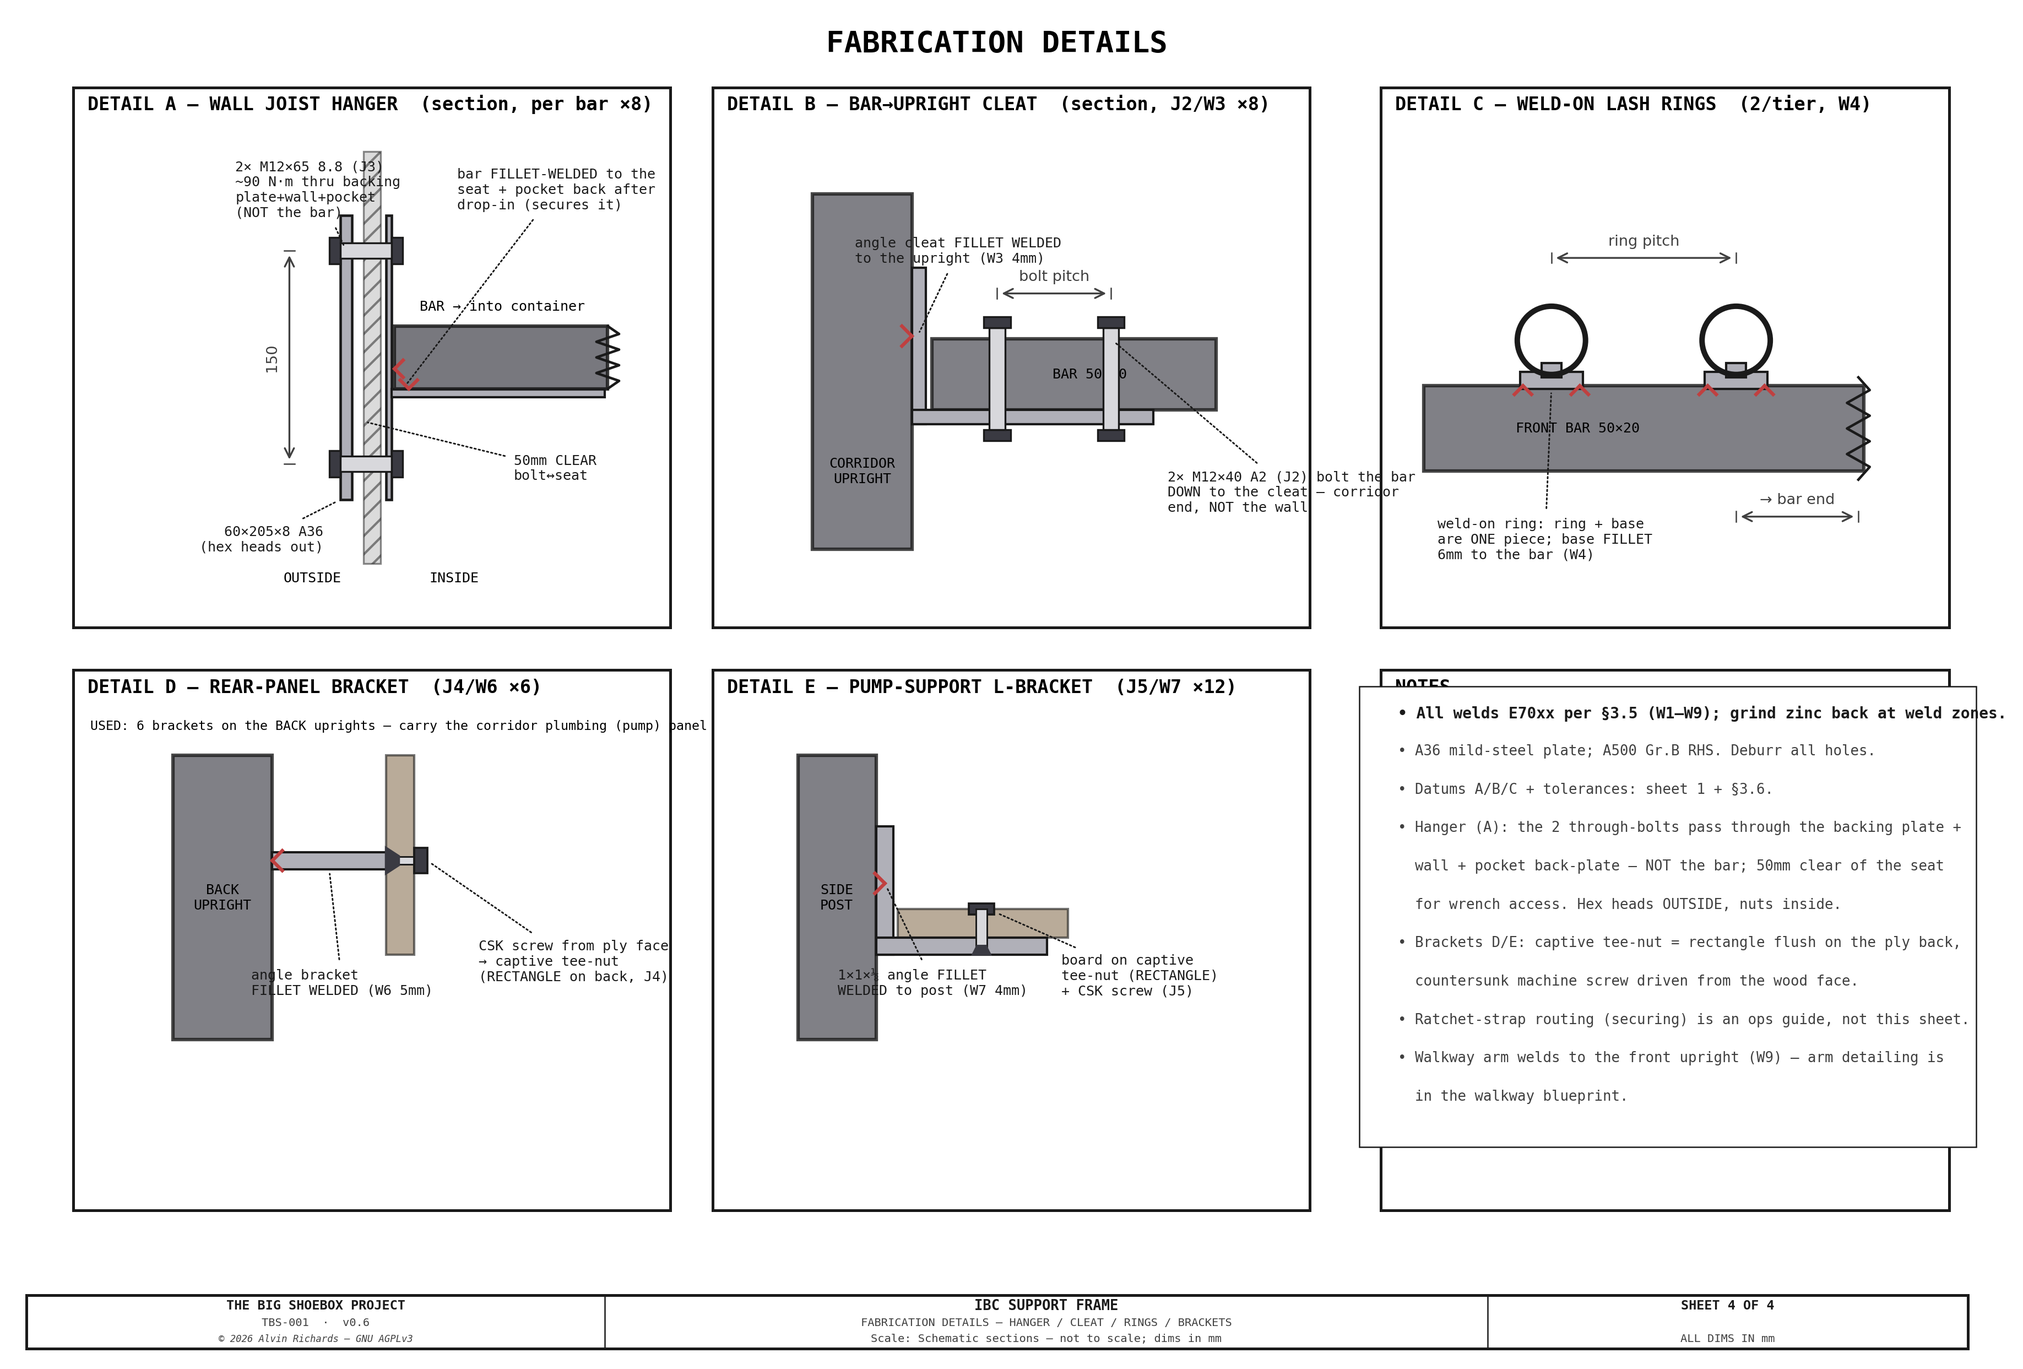
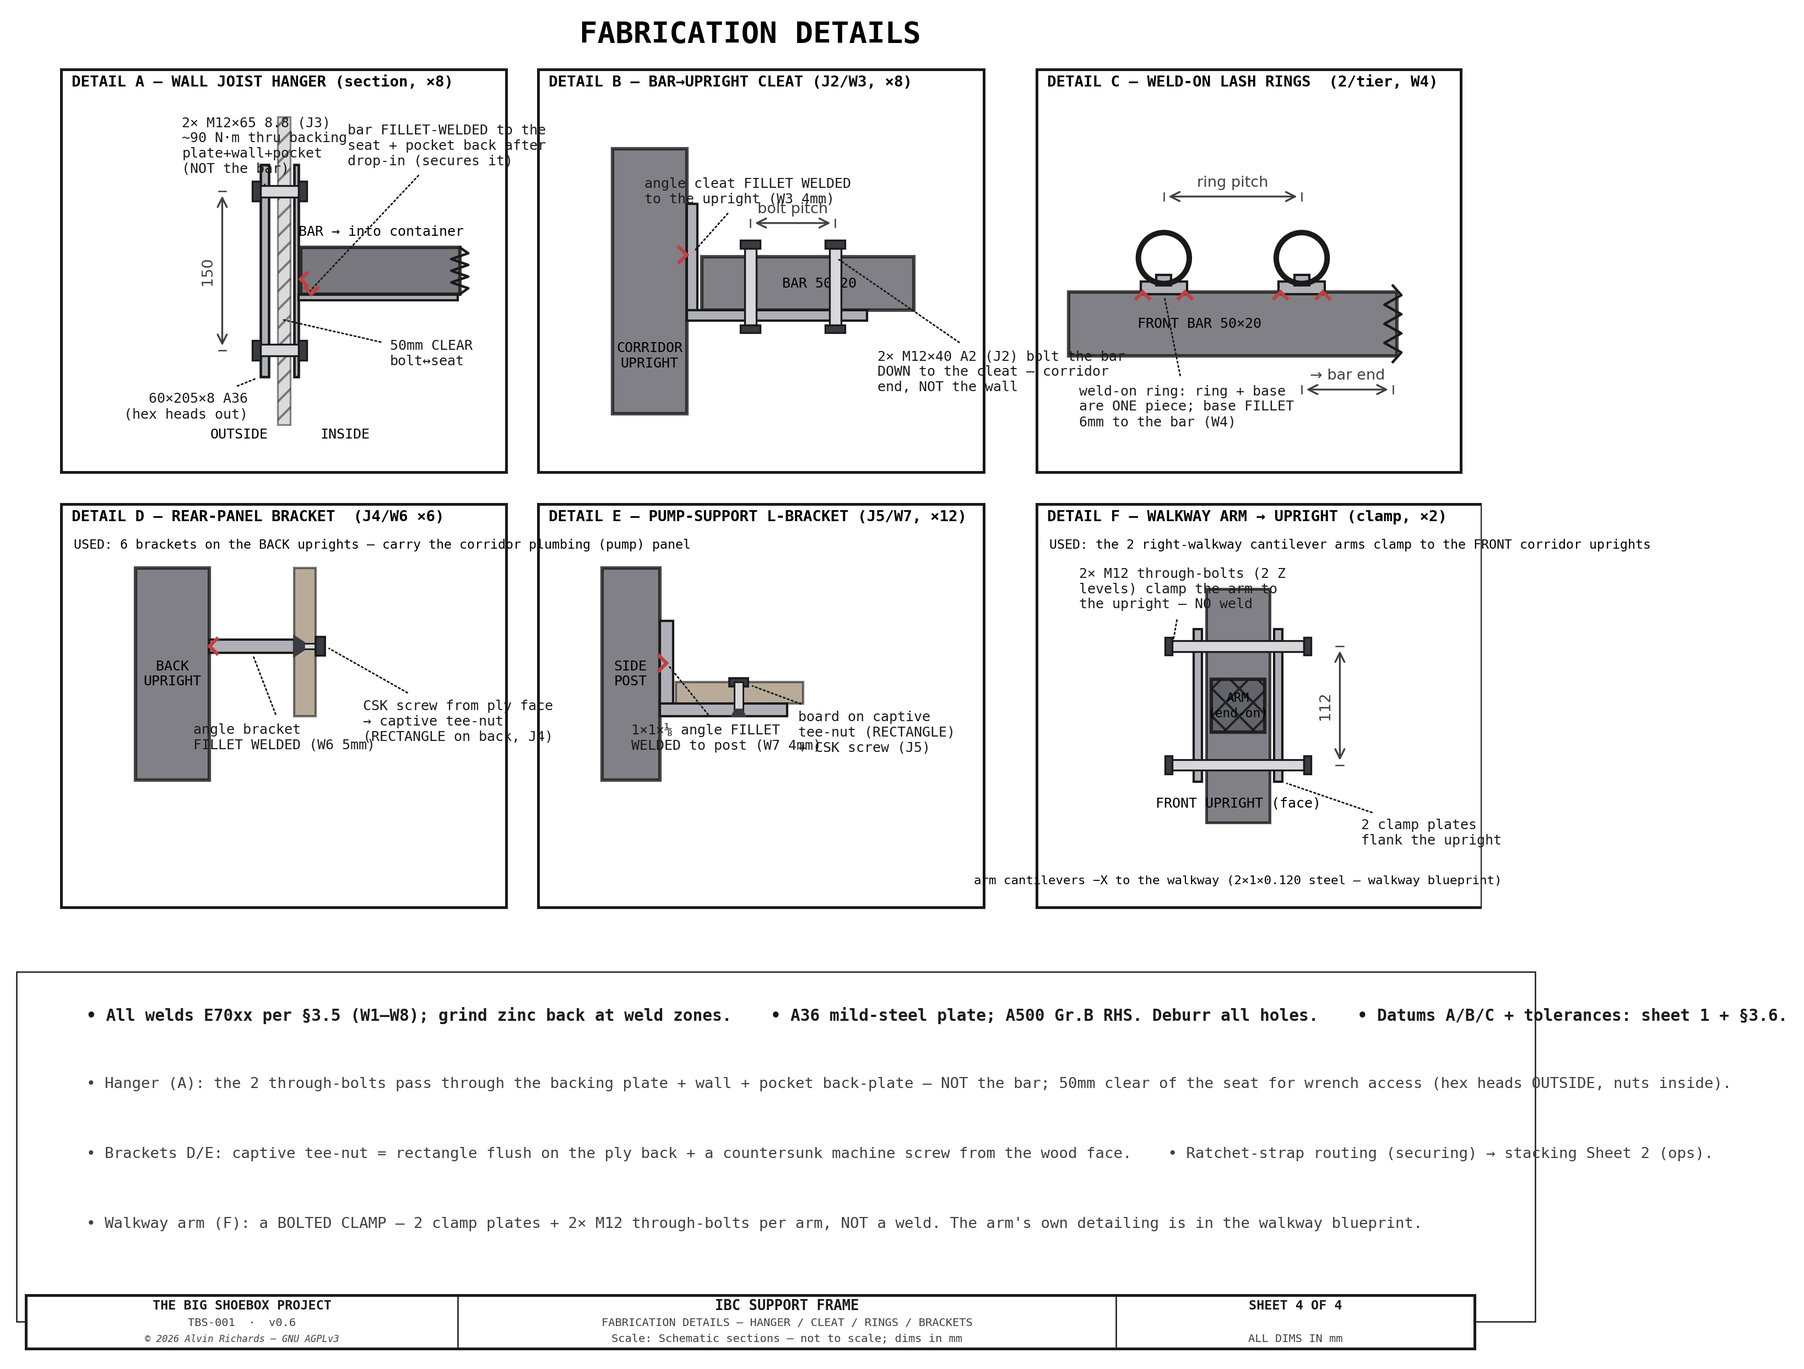
IBC frame Sheet 4: DETAIL F walkway arm->upright clamp + reclassify weld W9 -> bolt J6
The right-walkway cantilever arm attaches to a front corridor upright with a
BOLTED CLAMP (2 clamp plates + 2x M12 through-bolts, per ibc_cantilever_arms),
not a weld. Added DETAIL F to sheet4 and corrected the connection across the
blueprint: ibc_frame_load.py now checks it as a 2-bolt clamp (couple over the
~37mm bolt spacing, SF 3.8); report §3.4 (clamp), §3.5 (new fastener J6, W9
removed from the weld schedule), §8 (Sheet 4 now A-F). Clamp hardware ships
with the walkway-arm assembly, not this frame's BOM.

diff --git a/src/generators/generate_ibc_frame_drawing.py b/src/generators/generate_ibc_frame_drawing.py
@@ -1078,18 +1078,18 @@ def sheet3():
 def _dcell(ax, x0, y0, w, h, title):
     """A titled detail cell."""
     ax.add_patch(Rectangle((x0, y0), w, h, fc="none", ec=C_OUT, lw=1.2, zorder=3))
-    ax.text(x0 + 10, y0 + h - 16, title, fontsize=8, fontweight="bold", **FONT, zorder=6)
+    ax.text(x0 + 10, y0 + h - 16, title, fontsize=6.6, fontweight="bold", **FONT, zorder=6)
 
 
 def sheet4():
     """Sheet 4 — fabrication detail insets (corrected cross-sections)."""
     fig, ax = plt.subplots(figsize=(16.5, 10.5))
-    ax.set_xlim(-20, 1360); ax.set_ylim(-40, 900); ax.set_aspect("equal"); ax.axis("off")
+    ax.set_xlim(-20, 1360); ax.set_ylim(-360, 900); ax.set_aspect("equal"); ax.axis("off")
     ax.text(670, 875, "FABRICATION DETAILS", fontsize=13, fontweight="bold", ha="center", **FONT)
 
     # ── DETAIL A — WALL JOIST HANGER (Z–Yd section: bolts thru the PLATES, bar between) ──
     ax0, ay0 = 20, 470
-    _dcell(ax, ax0, ay0, 420, 380, "DETAIL A — WALL JOIST HANGER  (section, per bar ×8)")
+    _dcell(ax, ax0, ay0, 420, 380, "DETAIL A — WALL JOIST HANGER (section, ×8)")
     wy = ax0 + 210; zc = ay0 + 190
     hatch_rect(ax, wy - 6, ay0 + 45, 12, 290, color="#B8B8B8", hatch="///")            # wall in section
     ax.add_patch(Rectangle((wy - 22, zc - 100), 8, 200, fc=C_STEEL, ec=C_OUT, lw=1.1, zorder=6))   # 60x205x8 backing plate
@@ -1112,7 +1112,7 @@ def sheet4():
 
     # ── DETAIL B — BAR→UPRIGHT CLEAT (section, VERTICAL bolts + spacing) ──
     bx0, by0 = 470, 470
-    _dcell(ax, bx0, by0, 420, 380, "DETAIL B — BAR→UPRIGHT CLEAT  (section, J2/W3 ×8)")
+    _dcell(ax, bx0, by0, 420, 380, "DETAIL B — BAR→UPRIGHT CLEAT (J2/W3, ×8)")
     ux = bx0 + 70; uz = by0 + 55
     _rhs_rect(ax, ux, uz, 70, 250, fc=C_FRAME, alpha=0.8, zo=5)                                      # corridor upright (section)
     ax.text(ux + 35, uz + 55, "CORRIDOR\nUPRIGHT", fontsize=6, ha="center", va="center", **FONT, zorder=8)
@@ -1160,7 +1160,7 @@ def sheet4():
 
     # ── DETAIL E — PUMP-SUPPORT L-BRACKET (captive nut = rectangle + CSK, vertical) ──
     ex0, ey0 = 470, 60
-    _dcell(ax, ex0, ey0, 420, 380, "DETAIL E — PUMP-SUPPORT L-BRACKET  (J5/W7 ×12)")
+    _dcell(ax, ex0, ey0, 420, 380, "DETAIL E — PUMP-SUPPORT L-BRACKET (J5/W7, ×12)")
     qx, qy = ex0 + 60, ey0 + 120
     _rhs_rect(ax, qx, qy, 55, 200, fc=C_FRAME, alpha=0.8, zo=5)                                      # side post
     ax.text(qx + 27, qy + 100, "SIDE\nPOST", fontsize=6, ha="center", va="center", **FONT, zorder=8)
@@ -1175,22 +1175,34 @@ def sheet4():
     leader(ax, qx + 61, qy + 110, qx + 28, qy + 40, "1×1×⅛ angle FILLET\nWELDED to post (W7 4mm)", fs=6, font=FONT, ha="left")
     leader(ax, qx + 138, qy + 90, qx + 185, qy + 45, "board on captive\ntee-nut (RECTANGLE)\n+ CSK screw (J5)", fs=6, font=FONT, ha="left")
 
-    # ── Legend / notes cell ──
-    nx0, ny0 = 940, 60
-    _dcell(ax, nx0, ny0, 400, 380, "NOTES")
+    # ── DETAIL F — WALKWAY CANTILEVER ARM → FRONT UPRIGHT (2-bolt clamp, Yd–Z elevation) ──
+    fx0, fy0 = 940, 60
+    _dcell(ax, fx0, fy0, 420, 380, "DETAIL F — WALKWAY ARM → UPRIGHT (clamp, ×2)")
+    ax.text(fx0 + 12, fy0 + 338, "USED: the 2 right-walkway cantilever arms clamp to the FRONT corridor uprights",
+            fontsize=5.6, **FONT, zorder=6)
+    fyc, fzc = fx0 + 190, fy0 + 190
+    ax.add_patch(Rectangle((fyc - 30, fzc - 110), 60, 220, fc=C_FRAME, ec=C_OUT, lw=1.2, alpha=0.8, zorder=5))  # upright face
+    ax.text(fyc, fzc - 92, "FRONT UPRIGHT (face)", fontsize=6, ha="center", va="center", **FONT, zorder=8)
+    ax.add_patch(Rectangle((fyc - 25, fzc - 25), 50, 50, fc=C_FRAME, ec=C_OUT, lw=1.5, hatch="xx", alpha=0.9, zorder=7))  # arm end-on
+    ax.text(fyc, fzc, "ARM\n(end-on)", fontsize=5.5, ha="center", va="center", **FONT, zorder=9)
+    for fyy in (fyc - 42, fyc + 34):                                             # 2 clamp plates flanking the upright
+        ax.add_patch(Rectangle((fyy, fzc - 72), 8, 144, fc=C_STEEL, ec=C_OUT, lw=1, zorder=6))
+    for bz in (fzc - 56, fzc + 56):                                              # 2 M12 through-bolts (2 Z levels)
+        _bolt(ax, fyc - 62, bz, 124, d=10, nut=True)
+    draw_dim_v(ax, fyc + 96, fzc - 56, fzc + 56, "112")
+    leader(ax, fyc + 42, fzc - 72, fyc + 116, fzc - 120, "2 clamp plates\nflank the upright", fs=6, font=FONT, ha="left")
+    leader(ax, fyc - 62, fzc + 56, fyc - 150, fzc + 110, "2× M12 through-bolts (2 Z\nlevels) clamp the arm to\nthe upright — NO weld", fs=6, font=FONT, ha="left")
+    ax.text(fyc, fy0 + 22, "arm cantilevers −X to the walkway (2×1×0.120 steel — walkway blueprint)",
+            fontsize=5.4, ha="center", **FONT, zorder=6)
+
+    # ── Full-width NOTES band ──
+    _dcell(ax, 20, -330, 1340, 300, "NOTES")
     draw_notes(ax, [
-        "• All welds E70xx per §3.5 (W1–W9); grind zinc back at weld zones.",
-        "• A36 mild-steel plate; A500 Gr.B RHS. Deburr all holes.",
-        "• Datums A/B/C + tolerances: sheet 1 + §3.6.",
-        "• Hanger (A): the 2 through-bolts pass through the backing plate +",
-        "  wall + pocket back-plate — NOT the bar; 50mm clear of the seat",
-        "  for wrench access. Hex heads OUTSIDE, nuts inside.",
-        "• Brackets D/E: captive tee-nut = rectangle flush on the ply back,",
-        "  countersunk machine screw driven from the wood face.",
-        "• Ratchet-strap routing (securing) is an ops guide, not this sheet.",
-        "• Walkway arm welds to the front upright (W9) — arm detailing is",
-        "  in the walkway blueprint.",
-    ], nx0 + 12, ny0 + 355, spacing=27, fs=6.2, font=FONT, width=380)
+        "• All welds E70xx per §3.5 (W1–W8); grind zinc back at weld zones.    • A36 mild-steel plate; A500 Gr.B RHS. Deburr all holes.    • Datums A/B/C + tolerances: sheet 1 + §3.6.",
+        "• Hanger (A): the 2 through-bolts pass through the backing plate + wall + pocket back-plate — NOT the bar; 50mm clear of the seat for wrench access (hex heads OUTSIDE, nuts inside).",
+        "• Brackets D/E: captive tee-nut = rectangle flush on the ply back + a countersunk machine screw from the wood face.    • Ratchet-strap routing (securing) → stacking Sheet 2 (ops).",
+        "• Walkway arm (F): a BOLTED CLAMP — 2 clamp plates + 2× M12 through-bolts per arm, NOT a weld. The arm's own detailing is in the walkway blueprint.",
+    ], 44, -34, spacing=66, fs=6.6, font=FONT, width=1300)
 
     title_block(ax, "SHEET 4 OF 4",
                 drawing_title="IBC SUPPORT FRAME",

diff --git a/src/generators/ibc_frame_load.py b/src/generators/ibc_frame_load.py
@@ -202,15 +202,16 @@ def service_loads():
     m_conn = p_arm * ARM_REACH_M
     z_upr = z_rhs(IBC_FRAME_RHS, IBC_FRAME_RHS, IBC_FRAME_T)   # 50.8x50.8x3 upright
     m_cap_upr = z_upr * FY_A500B / 1e3
-    # arm->upright connection: moment carried as a couple over the 2x1 arm depth (25.4mm) by a 5mm fillet
-    # weld (or an equivalent 2-bolt clamp); representative check = top-fibre weld force vs a 50.8mm run.
-    f_couple = m_conn / 0.0254
-    weld_cap = 0.707 * 5 * 50.8 * 0.6 * FU_WELD
+    # arm->upright connection = a BOLTED CLAMP (2 clamp plates + 2x M12 through-bolts wrapping the upright,
+    # per ibc_cantilever_arms). The moment is carried as a couple over the ~37mm clamp bolt spacing.
+    clamp_sp = 0.037
+    f_couple = m_conn / clamp_sp
+    bolt_cap = bolt_shear_cap(FUB_88, 1)   # per M12 8.8 through-bolt
     lines.append(f"  walkway arm tip {p_arm:.0f} N (22kg dead + 1kN person) x {ARM_REACH_M*1000:.0f}mm"
                  f" = {m_conn:.0f} N.m at the upright")
     lines.append(f"  front upright bending (50.8 RHS): cap {m_cap_upr:.0f} N.m  SF {m_cap_upr/m_conn:.1f}")
-    lines.append(f"  arm->upright connection (5mm fillet / 2-bolt clamp): couple {f_couple:.0f} N,"
-                 f" weld cap {weld_cap:.0f} N  SF {weld_cap/f_couple:.1f}")
+    lines.append(f"  arm->upright CLAMP (2x M12 through-bolts): couple {f_couple:.0f} N/bolt,"
+                 f" cap {bolt_cap:.0f} N  SF {bolt_cap/f_couple:.1f}")
     lines.append("  Both non-governing vs the EN 12195-1 transport case (bar SF 1.59). Arm DETAILING = walkway blueprint.")
     return "\n".join(lines)
 

diff --git a/ibc-stacking-report.md b/ibc-stacking-report.md
@@ -119,7 +119,7 @@ and the walkway-arm connection are validated and scheduled in §3.4–3.6 alongs
 | Weld-on lashing rings | 8 on the front bars (4 per tier); 3,333 lb (~1,512 kg) assembly WLL (2" strap-limited), 2 straps per stack |
 | Panel mount | the box carries the Corridor (pump) Plumbing Panel + drain-riser spine on the back uprights, and the right-walkway cantilever arms on the front uprights |
 | Frame weight | ~123 kg (4 uprights + rings + 4 feet + 8 front bars + 8 hangers + 8 exterior plates + rear-panel brackets + 4 mats — see [weight report](weight-distribution-report.md)) |
-| Joints | Welded (fillet weld throughout — sizes scheduled in §3.5) |
+| Joints | Welded (fillet weld throughout — sizes scheduled in §3.5); the walkway-arm connection is a bolted clamp (J6), not a weld |
 
 ![TBS-001 IBC Frame — Sheet 2: Side Elevation](assets/ibc-frame-sheet2.png)
 
@@ -162,7 +162,7 @@ The two bars give **defense in depth**: as positive blocking they pass on their 
 **Service + walkway load cases** (the same frame also carries the plumbing panel and the walkway — both **non-governing** vs the transport case):
 
 - **Plumbing panel + pumps** (~20 kg on the 6 rear-panel brackets) = ~33 N/bracket, static — trivial (SF ≫ 10).
-- **Right-walkway cantilever** — each of the 2 arms carries ~22 kg dead + a 1 kN person point load at the deck (325 mm out from the upright) = a **395 N·m moment into the front upright**: the 50.8 RHS upright bends at **SF 6.9**, and the arm→upright connection (5 mm fillet weld or a 2-bolt clamp) at **SF 3.3**. The arm's own detailing belongs to the walkway blueprint; only its connection into this frame is checked here.
+- **Right-walkway cantilever** — each of the 2 arms carries ~22 kg dead + a 1 kN person point load at the deck (325 mm out from the upright) = a **395 N·m moment into the front upright**: the 50.8 RHS upright bends at **SF 6.9**, and the arm→upright connection — a **bolted clamp** (2 clamp plates wrapping the upright + 2× M12 through-bolts, J6) carrying the moment as a couple over the ~37 mm bolt spacing — at **SF 3.8**. The arm's own detailing belongs to the walkway blueprint; only its connection into this frame is checked here.
 
 ### 3.5 Fastener + Weld Schedule (fabrication)
 
@@ -179,6 +179,7 @@ are the standard values for the grade.
 | J3 | Wall hanger → side wall → exterior backing plate | M12×65 through-bolt (91280A728) | Gr.8.8 zinc | 16 | **~90 N·m** (85–95 band) | flat (head, outside) + flat + split-lock (nut, inside) | plain nut + split-lock washer |
 | J4 | Corridor plumbing panel → back-upright angle brackets | M8 hex into captive 5/16 tee-nut in the ply | zinc | 6 brackets | snug + locker (light static load) | flat | thread-locker |
 | J5 | Pump-support boards → welded L-brackets | ¼-20 CSK machine screw into captive pronged tee-nut (rear-panel method, #30) | zinc | 12 brackets | snug | — | pronged tee-nut (self-locking in ply) |
+| J6 | Walkway cantilever arm → front upright (2 clamp plates wrap the upright) | M12×40 hex through-bolt | Gr.8.8 zinc | 2 arms × 2 bolts = 4 | **~90 N·m** (85–95 band) | flat both ends | nyloc nut |
 
 Straps: 2 × 2″ ratchet strap per stack, ratcheted to the 3,333 lb (~1,512 kg) assembly WLL — no torque.
 
@@ -196,9 +197,8 @@ Torque sources: M12 8.8 zinc/dry ≈ 88 N·m ([Fastenal torque-tension, K = 0.20
 | W6 | Rear-panel bracket ↔ back upright (×6) | 5 mm | all-around | min fillet (panel load ~33 N/bracket) |
 | W7 | Pump-support L-bracket ↔ side post (×12) | 4 mm | 2 legs | min fillet |
 | W8 | Ribbon cross-beam ↔ walkway bearer (×4 ends) | 4 mm | both ends | min fillet |
-| W9 | Walkway cantilever arm ↔ front upright (×2) | 5 mm all-around (or 2-bolt clamp) | connection | **SF 3.3** (395 N·m arm moment) |
 
-The wall joist hangers are **folded** 4 mm plate (bent, not welded); the exterior backing plates are loose (bolted, not welded). The corridor-panel + pump-support brackets and the ribbon cross-beams are the **plumbing-corridor metal** that shares this frame; the walkway cantilever arms weld to the front uprights (W9) but are detailed in the walkway blueprint.
+The wall joist hangers are **folded** 4 mm plate (bent, not welded); the exterior backing plates are loose (bolted, not welded). The corridor-panel + pump-support brackets and the ribbon cross-beams are the **plumbing-corridor metal** that shares this frame; the walkway cantilever arms **clamp** to the front uprights (J6, a bolted 2-plate clamp — not a weld) but are detailed in the walkway blueprint.
 
 These joints are drawn on **Sheet 4** (each with its weld + fastener callout):
 
@@ -363,7 +363,7 @@ relevant sections above; the full set is collected here and in [Engineering Diag
 **Sheet 3 — Plan view: deep 4-leg box (4 legs + ring perimeter) + retaining bars + 4 floor feet + IBC footprints + corridor + walkway arms**
 ![TBS-001 IBC Frame — Sheet 3](assets/ibc-frame-sheet3.png)
 
-**Sheet 4 — Fabrication details: DETAIL A wall joist hanger (per-bar, 2-bolt, 50mm clearance), B bar→upright cleat, C weld-on lashing ring, D rear-panel bracket, E pump-support L-bracket — each with weld (W) + fastener (J) callouts**
+**Sheet 4 — Fabrication details: DETAIL A wall joist hanger (per-bar, 2-bolt, 50mm clearance), B bar→upright cleat, C weld-on lashing ring, D rear-panel bracket, E pump-support L-bracket, F walkway arm→front-upright clamp (2 plates + 2× M12 through-bolts, J6) — each with weld (W) + fastener (J) callouts**
 ![TBS-001 IBC Frame — Sheet 4](assets/ibc-frame-sheet4.png)
 
 <!-- brochure:endskip -->

diff --git a/RELEASE.md b/RELEASE.md
@@ -24,6 +24,15 @@ file** — a release must not ship without a changelog entry:
 
 ## [Unreleased]
 
+- **IBC frame Sheet 4 — DETAIL F: walkway arm → front-upright connection.** Added the sixth detail inset:
+  how each right-walkway cantilever arm attaches to a front corridor upright. Corrected from an assumed
+  weld to the ACTUAL design (per `ibc_cantilever_arms`) — a **bolted clamp**: 2 clamp plates wrap the
+  upright + 2× M12 through-bolts at two Z levels (no weld). Reclassified the connection across the whole
+  blueprint: `ibc_frame_load.py` now checks it as a 2-bolt clamp (couple over the ~37 mm bolt spacing,
+  **SF 3.8**, up from the SF 3.3 weld estimate); report §3.4 (clamp, not weld), §3.5 (new fastener **J6**;
+  **W9 removed** from the weld schedule), and §8 (Sheet 4 now A–F). Clamp hardware is procured with the
+  walkway-arm assembly (walkway blueprint), not double-counted in this frame's BOM.
+
 - **IBC detail sheets consolidated + corrected per review.** Fabrication details now live on a single sheet
   (`ibc-frame-sheet4`), reworked per feedback: DETAIL A hanger as a SECTION (bolts through the backing
   plate + wall + pocket — not the bar; vertical pair 50 mm clear; standard bolt-in-section symbols),
@@ -34,9 +43,10 @@ file** — a release must not ship without a changelog entry:
   the operational ratchet-buckle close-up.
 
 - **IBC frame blueprint Phase D detail insets → new Sheet 4 (Fabrication Details).** `ibc-frame-sheet4`
-  draws the five connections a shop builds from — **A** wall joist hanger (per-bar 2-bolt, 50 mm bolt
+  draws the connections a shop builds from — **A** wall joist hanger (per-bar 2-bolt, 50 mm bolt
   clearance, 60×205×8 backing plate), **B** bar→upright cleat, **C** weld-on lashing ring, **D** rear-panel
-  bracket, **E** pump-support L-bracket — each with its weld (W) + fastener (J) callout and a notes cell.
+  bracket, **E** pump-support L-bracket, **F** walkway arm→upright clamp — each with its weld (W) + fastener
+  (J) callout and a notes cell.
   Registered in the gallery / publish.sh / setup_docs and embedded in report §3.5 + §8 (frame set now 4
   sheets). Completes the IBC-corridor metal blueprint (A–E) — validated design + fastener/weld/tolerance
   schedules + cut list + detail sheet.
@@ -45,10 +55,10 @@ file** — a release must not ship without a changelog entry:
   is one welded structure serving three roles, so the review now also covers the plumbing-corridor metal
   that shares it. Added **service + walkway load cases** (`ibc_frame_load.py`): the plumbing panel + pumps
   (~33 N/bracket, trivial) and the right-walkway cantilever (each arm ~1.2 kN at 325 mm = a 395 N·m moment
-  into the front upright → upright bending **SF 6.9**, arm→upright connection **SF 3.3**) — both
-  non-governing vs the EN 12195-1 transport case. Extended report §3.4 (service cases), §3.5 (J4 panel-
-  bracket bolts, J5 pump-support-board fixings; welds W6 panel-bracket, W7 L-bracket, W8 ribbon-beam, W9
-  arm-connection), §3.6 (panel-mount + L-bracket landing tolerances), and the sheet-1 cut list (+6 rear-
+  into the front upright → upright bending **SF 6.9**, arm→upright bolted-clamp connection **SF 3.8**) —
+  both non-governing vs the EN 12195-1 transport case. Extended report §3.4 (service cases), §3.5 (J4 panel-
+  bracket bolts, J5 pump-support-board fixings, J6 arm clamp; welds W6 panel-bracket, W7 L-bracket, W8
+  ribbon-beam), §3.6 (panel-mount + L-bracket landing tolerances), and the sheet-1 cut list (+6 rear-
   panel brackets, +12 pump-support L-brackets, +4 ribbon cross-beams). Walkway-arm CONNECTION checked here;
   the arm's own detailing stays with the walkway blueprint (Alvin's boundary).
 
